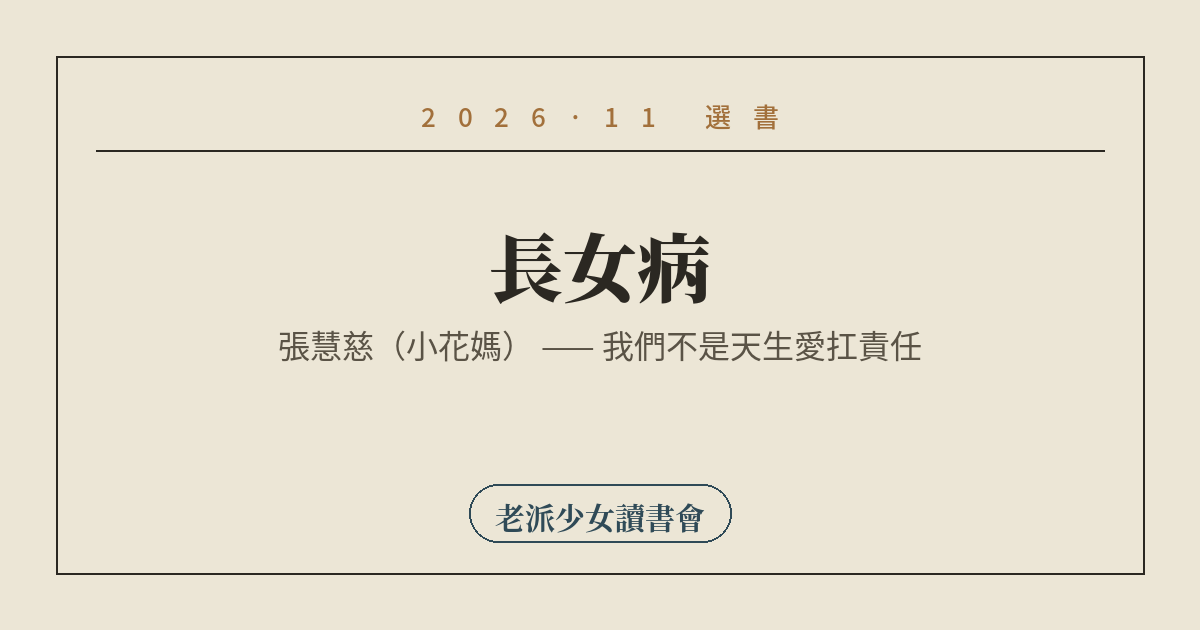
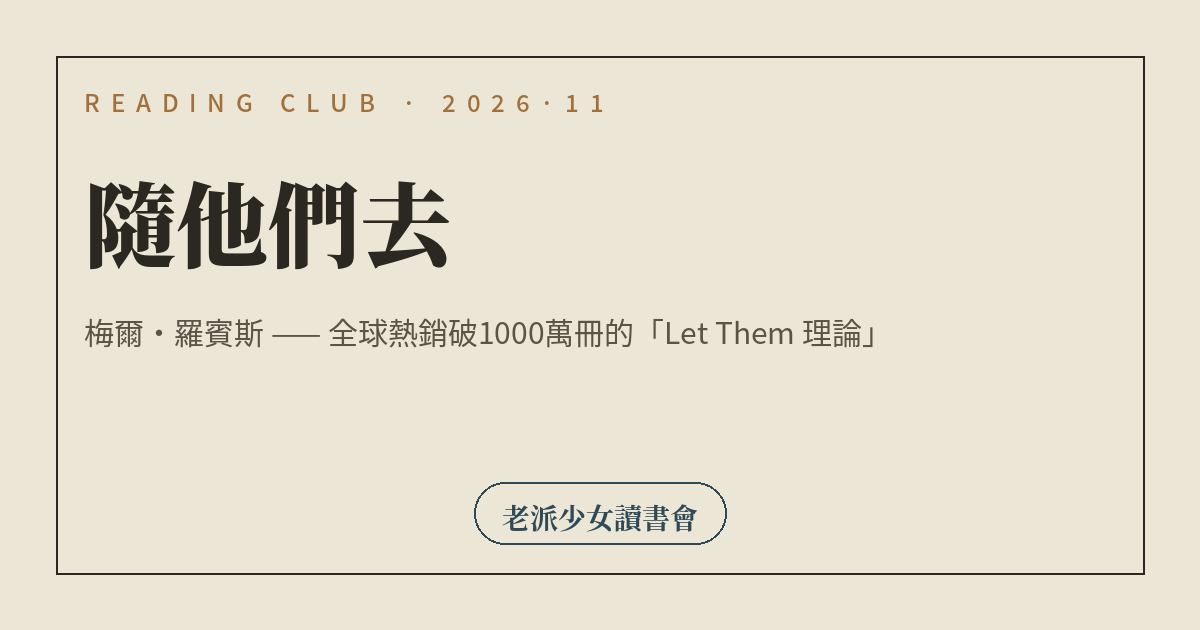
Add files via upload

diff --git a/guides/2026-11/index.html b/guides/2026-11/index.html
@@ -7,15 +7,15 @@
 
 <meta property="og:type" content="article">
 <meta property="og:url" content="https://cindy8216.github.io/book-club/guides/2026-11/">
-<meta property="og:title" content="長女病・老派少女讀書會 2026年11月選書">
-<meta property="og:description" content="張慧慈（小花媽）《長女病》讀書會討論引導單：長女的隱形責任、跨世代對照。">
+<meta property="og:title" content="隨他們去・老派少女讀書會 2026年11月選書">
+<meta property="og:description" content="梅爾・羅賓斯《隨他們去》讀書會討論引導單：放下控制、把力氣放回自己身上。">
 <meta property="og:image" content="https://cindy8216.github.io/book-club/guides/2026-11/og-image.png">
 <meta property="og:image:width" content="1200">
 <meta property="og:image:height" content="630">
 <meta property="og:locale" content="zh_TW">
 <meta name="twitter:card" content="summary_large_image">
-<meta name="twitter:title" content="長女病・老派少女讀書會 2026年11月選書">
-<meta name="twitter:description" content="張慧慈（小花媽）《長女病》讀書會討論引導單。">
+<meta name="twitter:title" content="隨他們去・老派少女讀書會 2026年11月選書">
+<meta name="twitter:description" content="梅爾・羅賓斯《隨他們去》讀書會討論引導單。">
 <meta name="twitter:image" content="https://cindy8216.github.io/book-club/guides/2026-11/og-image.png">
 
 <link rel="stylesheet" href="https://fonts.googleapis.com/css2?family=Noto+Serif+TC:wght@500;700;900&family=Noto+Sans+TC:wght@400;500;600;700&display=swap">
@@ -171,40 +171,41 @@
 
   <header class="hero">
     <div class="eyebrow">READING CLUB · 2026 · 11</div>
-    <h1>長女病</h1>
-    <p class="subtitle">張慧慈（小花媽）著——我們不是天生愛扛責任，台灣跨世代女兒的故事。收錄十多位長女與女兒的真實經驗。</p>
-    <div class="book-tag">第三本選書《長女病》張慧慈（小花媽）</div>
+    <h1>隨他們去</h1>
+    <p class="subtitle">梅爾・羅賓斯著——全球熱銷突破1000萬冊的「Let Them 理論」：別人的選擇，隨他們去；自己的人生，自己做主。</p>
+    <div class="book-tag">第三本選書《隨他們去》梅爾・羅賓斯</div>
   </header>
 
   <section id="book">
     <div class="sec-head"><span class="sec-num">01</span><h2>這本書在說什麼</h2></div>
-    <p class="lead">書裡收錄了十多位跨世代長女與女兒的故事，講的是家庭與社會怎麼在不知不覺中，把責任交給某一個孩子——通常是長女。從童年時期就開始扮演「代理父母」，照顧弟妹、分擔家務，長大後很自然地接手長期照顧的工作。書裡有句話很扎心：這些女性往往「最先被期待、最後被看見」。</p>
-    <p class="pull">「當姐姐，要多讓弟弟妹妹；當女兒，就該多分擔照顧。」</p>
+    <p class="lead">作者梅爾・羅賓斯提出一套兩步驟的理論：第一步是「Let Them」——放下想改變、糾正或控制別人的執念，讓別人做自己，因為我們本來就無法控制別人會怎麼想、怎麼做。第二步才是重點，「Let Me」——把因此省下來的心力，拿回來放在自己身上：自己要怎麼想、怎麼回應、怎麼過接下來的人生。書裡用她兒子高中舞會那晚堅持自己安排行程的小故事開場，她原本想插手，後來選擇放手，反而鬆了一口氣。全書二十章，從親子、婚姻、友情，一路聊到職場、成就焦慮、戒除壞習慣。</p>
+    <p class="pull">「他們怎麼想、怎麼做，隨他們去。你要怎麼想、怎麼做，才是你能決定的事。」</p>
   </section>
 
   <section id="q1">
     <div class="sec-head"><span class="sec-num">02</span><h2>討論方向</h2></div>
 
     <div class="qgroup">
-      <div class="qgroup-title">方向一・隱形的責任</div>
+      <div class="qgroup-title">方向一・隨他們去</div>
       <ul class="qlist">
-        <li>書裡的長女從小就被賦予「代理父母」的角色，沒有人真正問過她們要不要——不管你是不是長女，有沒有類似「責任突然就落到自己身上」的經驗？</li>
-        <li>「最先被期待、最後被看見」這句話，你會用在自己身上嗎？在家庭以外的場合（職場、朋友圈）會不會也有類似的角色？</li>
+        <li>最近有沒有什麼事，是你很想插手、糾正、或忍不住一直提醒對方，結果對方反而更不想聽、關係還變得更緊繃的？</li>
+        <li>書裡說「成年人只有自己願意的時候才會改變」——你同意嗎？有沒有哪一次，你花了很多力氣想改變一個人，後來才發現根本沒用？</li>
       </ul>
     </div>
 
     <div class="qgroup">
-      <div class="qgroup-title">方向二・跨世代對照</div>
+      <div class="qgroup-title">方向二・把力氣放回自己</div>
       <ul class="qlist">
-        <li>書裡收錄了不同世代長女的故事——你覺得現在年輕一代的女性，這種「長女病」的壓力是變輕了，還是只是換了一種形式（例如從照顧家務變成照顧父母情緒）？</li>
-        <li>如果你有機會問自己家裡上一代的長女（媽媽、阿姨、奶奶）一個問題，你會想問什麼？</li>
+        <li>如果把原本用在「希望別人怎麼做」的那份心力，整個收回來放在自己身上，你會先拿去做什麼？</li>
+        <li>同事圈最容易出現這種內耗——沒被邀去的聚餐、被安排在不想坐的位置、被忽略的小事。這種時候，「隨他們去、專心過自己的」聽起來容易，實際上做得到嗎？</li>
       </ul>
     </div>
 
     <div class="qgroup">
-      <div class="qgroup-title">方向三・如果可以重來</div>
+      <div class="qgroup-title">方向三・界線在哪裡</div>
       <ul class="qlist">
-        <li>如果可以回去對當年那個被交付責任、卻沒人問過願不願意的自己（或身邊的誰）說一句話，你會說什麼？</li>
+        <li>「隨他們去」聽起來很灑脫，但如果是家人健康出狀況、或朋友正在做傷害自己的決定，還適用嗎？你會怎麼分辨「該放手」和「該介入」？</li>
+        <li>讀完這本書，有沒有什麼人事物，你反而覺得「這個我不想放手」，而且很確定自己是對的？</li>
       </ul>
     </div>
   </section>
@@ -214,26 +215,26 @@
     <div class="timeline">
       <div class="tl-item">
         <div class="tl-time">聚會前</div>
-        <p>讀完全書，或挑幾篇跟自己處境最接近的故事讀熟；可以想一想自己在家裡／職場裡扮演的角色。</p>
+        <p>讀完全書，或至少想一件最近讓自己很內耗、卻其實是「別人的選擇」的事，帶到聚會上講。</p>
       </div>
       <div class="tl-item">
         <div class="tl-time">開場 15 分鐘</div>
-        <p>輪流講一句「我最有共鳴的一句話」，直接從書裡挑，不用先解釋。</p>
+        <p>每人講一個自己最近很想「Let Them」但做不到的場景，不用解決，先說出來就好。</p>
       </div>
       <div class="tl-item">
         <div class="tl-time">討論 1 小時</div>
-        <p>依三個討論方向聊；這本很容易聊到自己的家庭，時間可以抓寬鬆一點，不用急著聊完全部方向。</p>
+        <p>依三個討論方向聊；方向三（界線在哪裡）建議留多一點時間，這本書最容易引發「對，但是……」的反思。</p>
       </div>
       <div class="tl-item">
         <div class="tl-time">收尾 15 分鐘</div>
-        <p>決定下一本書；也可以留一句話互相打氣，畢竟這本聊起來可能會有點重。</p>
+        <p>每人說一句接下來想「Let Me」去做的事，順便決定下一本書。</p>
       </div>
     </div>
   </section>
 
   <footer>
-    <div class="cta">這本讀完，大概會忍不住想傳訊息給家裡的另一個長女。</div>
-    <p style="max-width:none;">聊的時候不用急，這本適合慢慢講。</p>
+    <div class="cta">這本讀完，大概會想把「隨他們去」四個字貼在辦公桌上。</div>
+    <p style="max-width:none;">聊的時候可以留意：放手跟冷漠不一樣，討論時可以多聊聊那條界線。</p>
   </footer>
 
 </div>
